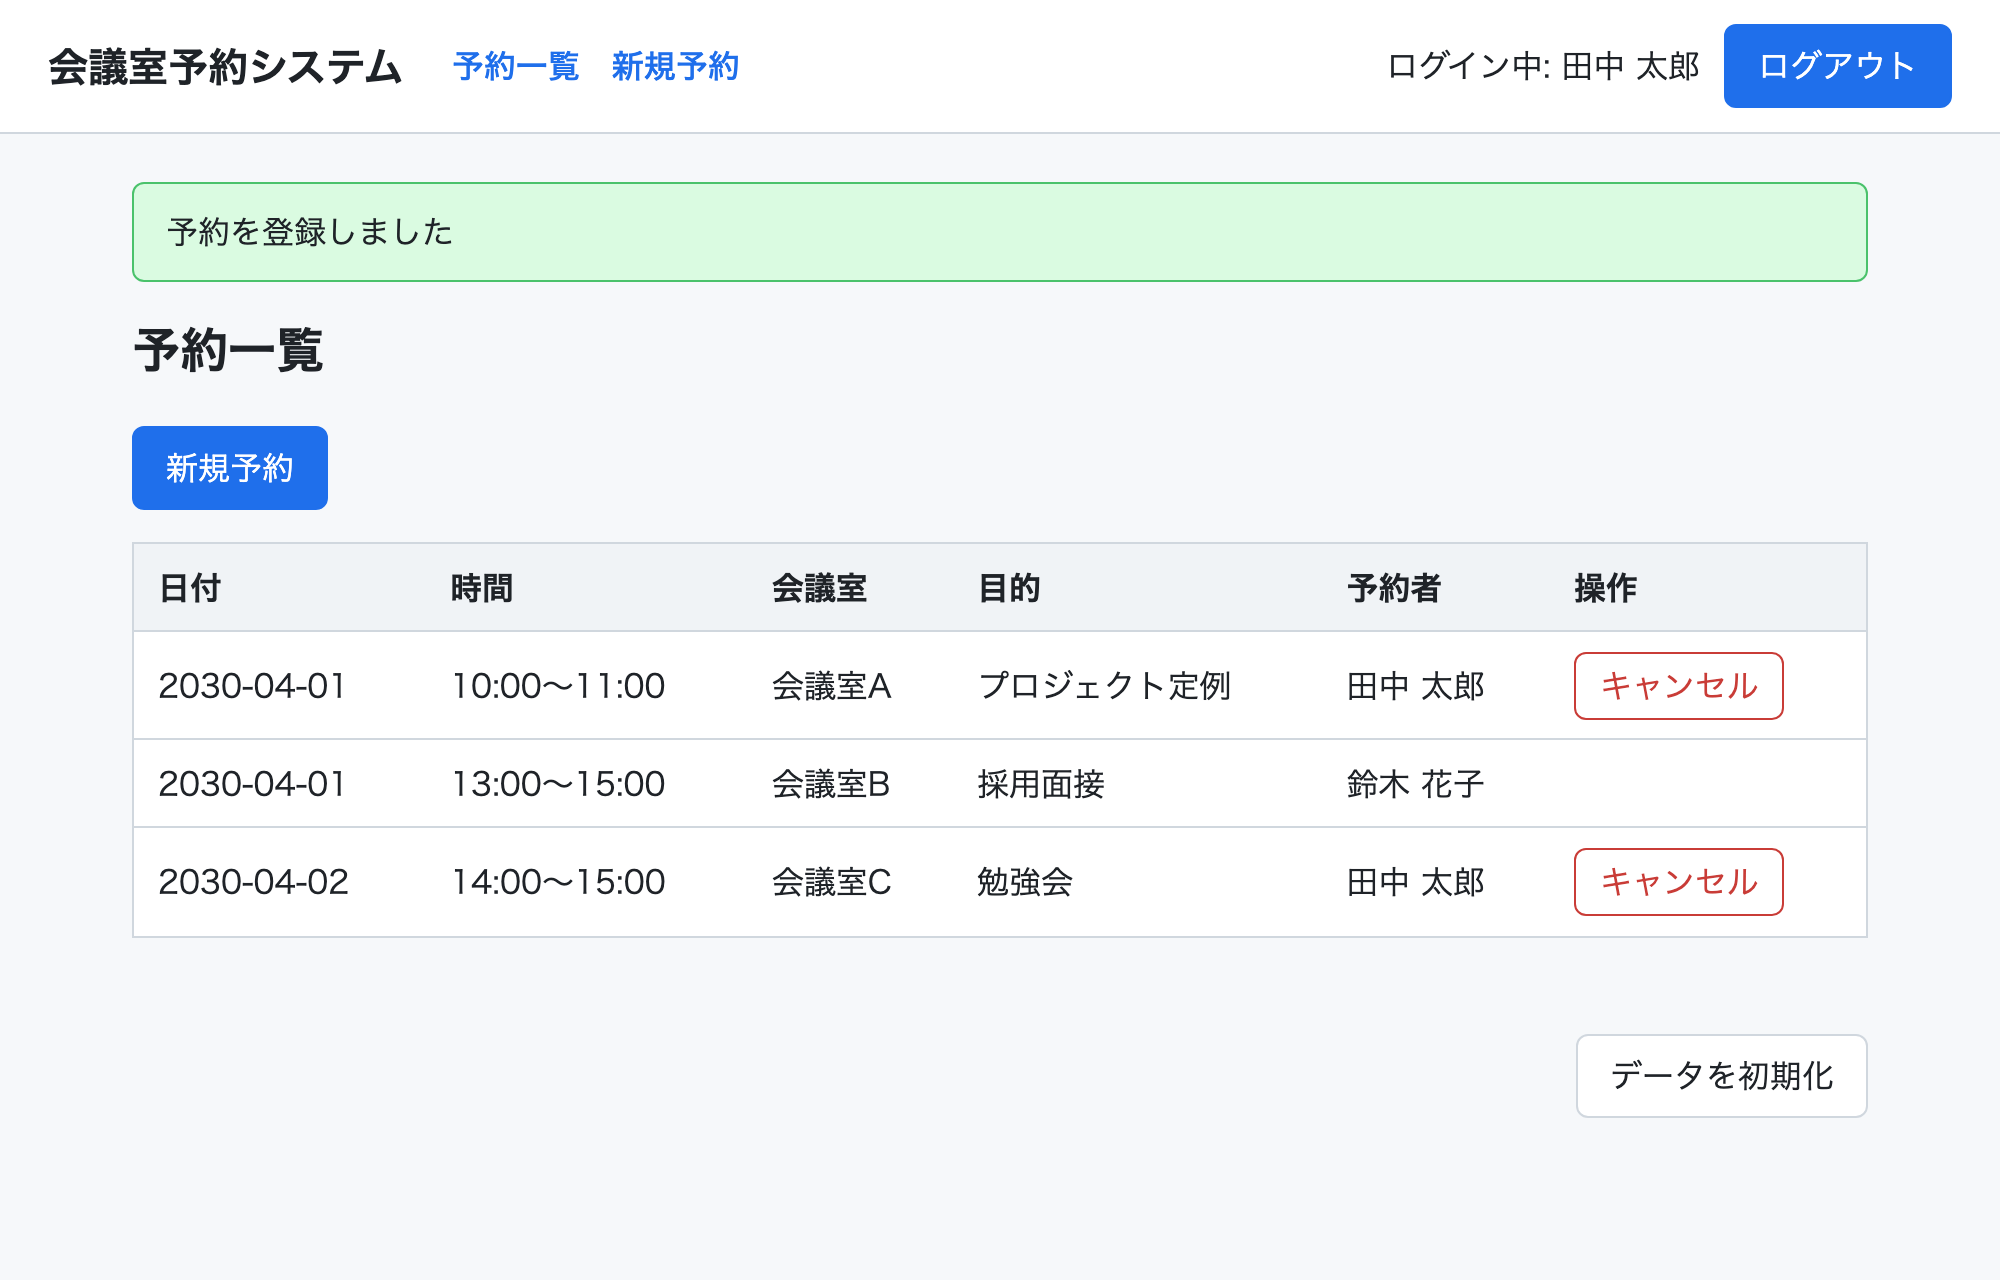
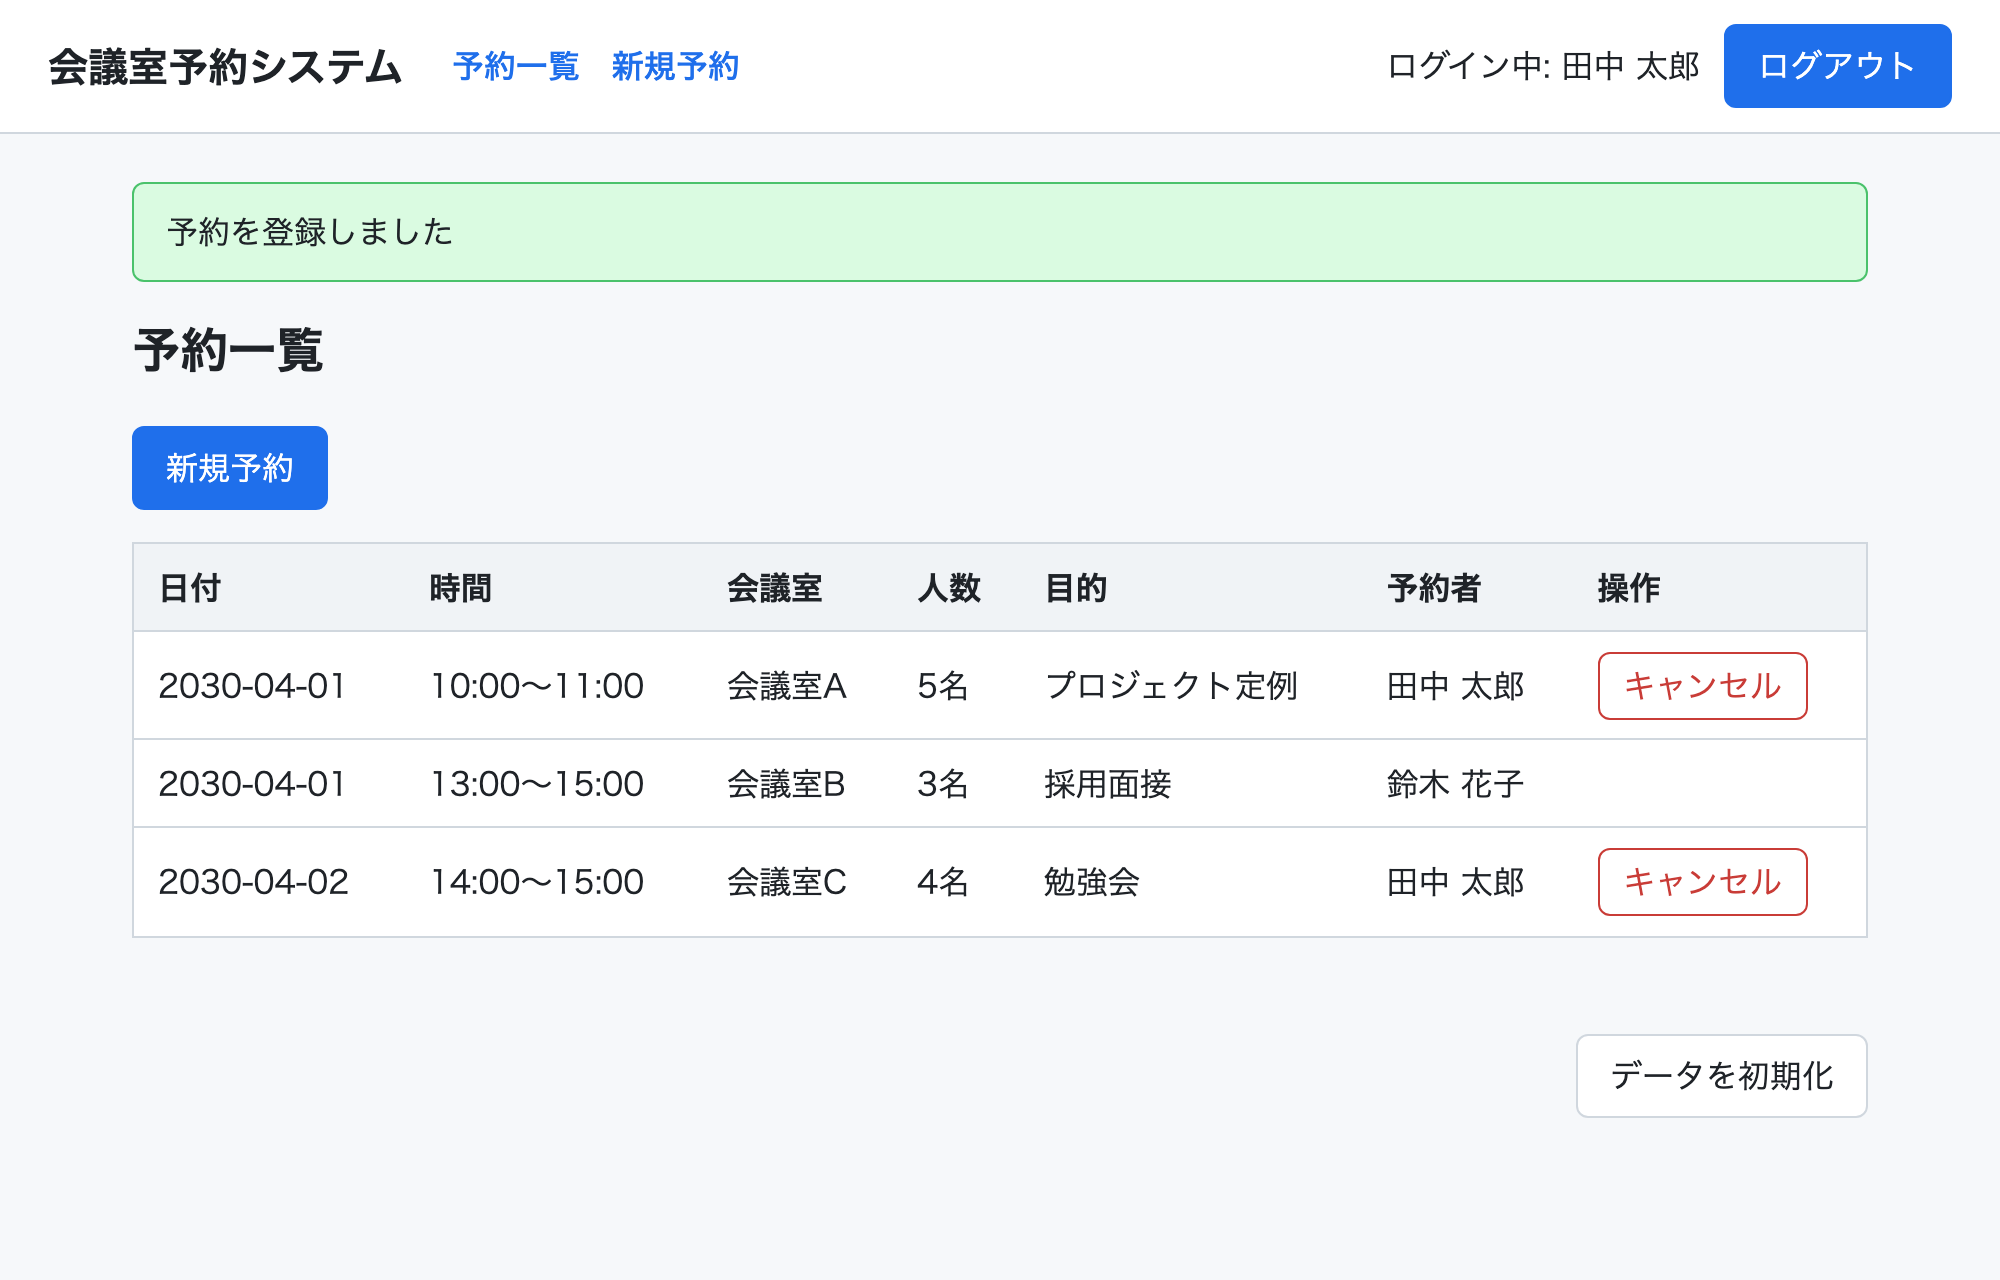
v2: 参加人数の入力と定員チェックを追加
Claude-Session: https://claude.ai/code/session_01Vzef2jXofJMPoy6LjLLJSj

diff --git a/app/views.js b/app/views.js
@@ -108,6 +108,7 @@ function reservationRow(reservation, { rooms, users, currentUser }) {
       <td>${escapeHtml(reservation.date)}</td>
       <td>${escapeHtml(reservation.startTime)}〜${escapeHtml(reservation.endTime)}</td>
       <td>${escapeHtml(room ? room.name : reservation.roomId)}</td>
+      <td>${escapeHtml(reservation.participants)}名</td>
       <td>${escapeHtml(reservation.purpose)}</td>
       <td>${escapeHtml(owner ? owner.name : reservation.userId)}</td>
       <td>${cancelForm}</td>
@@ -127,6 +128,7 @@ function listPage({ user, flash, reservations, rooms, users }) {
           <th scope="col">日付</th>
           <th scope="col">時間</th>
           <th scope="col">会議室</th>
+          <th scope="col">人数</th>
           <th scope="col">目的</th>
           <th scope="col">予約者</th>
           <th scope="col">操作</th>
@@ -181,6 +183,10 @@ function newReservationPage({ user, rooms, timeSlots, values = {}, errors = [] }
           <option value="">--:--</option>
           ${options(timeSlots, values.endTime)}
         </select>
+      </div>
+      <div class="field">
+        <label for="participants">参加人数</label>
+        <input id="participants" name="participants" type="number" value="${escapeHtml(values.participants ?? 1)}" min="1" required>
       </div>
       <div class="field">
         <label for="purpose">目的</label>

diff --git a/app/reservation.js b/app/reservation.js
@@ -33,6 +33,7 @@ function validateReservation(input) {
   const startTime = String(input.startTime || '');
   const endTime = String(input.endTime || '');
   const purpose = String(input.purpose || '').trim();
+  const participants = Number(input.participants);
 
   const room = findRoom(roomId);
   if (!room) {
@@ -49,9 +50,14 @@ function validateReservation(input) {
   if (purpose === '') {
     errors.push('目的を入力してください');
   }
+  if (!Number.isInteger(participants) || participants < 1) {
+    errors.push('参加人数は1以上の整数で入力してください');
+  } else if (room && participants > room.capacity) {
+    errors.push(`参加人数が会議室の定員（${room.capacity}名）を超えています`);
+  }
 
   if (errors.length === 0) {
-    const conflict = findConflict(store.reservations, roomId, date, startTime, endTime);
+    const conflict = findConflict(store.reservations, room, date, startTime, endTime);
     if (conflict) {
       errors.push('指定した時間帯はすでに予約されています');
     }
@@ -62,7 +68,7 @@ function validateReservation(input) {
   }
   return {
     errors: [],
-    reservation: { roomId, date, startTime, endTime, purpose },
+    reservation: { roomId, date, startTime, endTime, purpose, participants },
   };
 }
 

diff --git a/app/store.js b/app/store.js
@@ -34,6 +34,7 @@ function seedReservations() {
       startTime: '10:00',
       endTime: '11:00',
       purpose: 'プロジェクト定例',
+      participants: 5,
       userId: 'tanaka',
     },
     {
@@ -43,6 +44,7 @@ function seedReservations() {
       startTime: '13:00',
       endTime: '15:00',
       purpose: '採用面接',
+      participants: 3,
       userId: 'suzuki',
     },
   ];

diff --git a/docs/spec.md b/docs/spec.md
@@ -1,6 +1,6 @@
 # 会議室予約システム 仕様書
 
-バージョン: 1.0
+バージョン: 2.0（1.0 からの変更点は [changes-v2.md](changes-v2.md) を参照）
 
 ## 1. 概要
 
@@ -57,7 +57,7 @@
 ### 5.2 予約一覧
 
 - すべての利用者の予約を、日付・開始時刻・会議室の順（昇順）に表示します
-- 表示項目: 日付、時間（開始〜終了）、会議室、目的、予約者、操作
+- 表示項目: 日付、時間（開始〜終了）、会議室、人数、目的、予約者、操作
 - 自分の予約の行にのみ「キャンセル」ボタンが表示されます。他の利用者の予約には表示されません
 - 予約が 1 件もない場合は「予約はありません」と表示します
 - 「新規予約」ボタンを押すと新規予約画面へ遷移します
@@ -76,6 +76,7 @@
 | 日付 | 日付（YYYY-MM-DD） | |
 | 開始時刻 | 選択 | 09:00 〜 17:30 の 30 分刻み |
 | 終了時刻 | 選択 | 09:30 〜 18:00 の 30 分刻み |
+| 参加人数 | 数値 | 初期値 1 |
 | 目的 | テキスト（50文字まで） | |
 
 「予約する」ボタンを押すと、次のルールで入力内容を検証します。
@@ -88,8 +89,11 @@
 | R4 | 終了時刻が開始時刻より後であること | 終了時刻は開始時刻より後にしてください |
 | R5 | 目的が入力されていること | 目的を入力してください |
 | R6 | 同じ会議室・同じ日付で、時間帯が重なる予約がないこと | 指定した時間帯はすでに予約されています |
+| R7 | 参加人数が 1 以上の整数であること | 参加人数は1以上の整数で入力してください |
+| R8 | 参加人数が会議室の定員以下であること | 参加人数が会議室の定員（6名）を超えています ※括弧内は会議室の定員 |
 
-- R1〜R5 のエラーがある場合、R6 の重複チェックは行いません
+- R1〜R5、R7、R8 のエラーがある場合、R6 の重複チェックは行いません
+- 参加人数が定員と同じ場合は予約できます（定員 6 名の会議室に 6 名は可、7 名は不可）
 - 時間帯の重なりは「新しい予約の開始時刻 < 既存の予約の終了時刻」かつ「新しい予約の終了時刻 > 既存の予約の開始時刻」のときに発生します。たとえば 10:00〜11:00 の予約がある場合、11:00〜12:00 の予約は重複しません
 - 別の会議室であれば、同じ日付・同じ時間帯でも予約できます
 - エラーがある場合は新規予約画面に戻り、エラーメッセージを一覧表示します。入力内容は保持されます
@@ -113,10 +117,10 @@
 
 ## 6. 初期データ
 
-| # | 会議室 | 日付 | 時間 | 目的 | 予約者 |
-| --- | --- | --- | --- | --- | --- |
-| 1 | 会議室A | 2030-04-01 | 10:00〜11:00 | プロジェクト定例 | 田中 太郎 |
-| 2 | 会議室B | 2030-04-01 | 13:00〜15:00 | 採用面接 | 鈴木 花子 |
+| # | 会議室 | 日付 | 時間 | 人数 | 目的 | 予約者 |
+| --- | --- | --- | --- | --- | --- | --- |
+| 1 | 会議室A | 2030-04-01 | 10:00〜11:00 | 5名 | プロジェクト定例 | 田中 太郎 |
+| 2 | 会議室B | 2030-04-01 | 13:00〜15:00 | 3名 | 採用面接 | 鈴木 花子 |
 
 ## 7. 開発者・テスト用 API
 

diff --git a/docs/changes-v2.md b/docs/changes-v2.md
@@ -1,0 +1,40 @@
+# 追加仕様書（バージョン 2.0）
+
+バージョン 1.0 からの変更点をまとめています。全体の仕様は [spec.md](spec.md) を参照してください。
+
+## 背景
+
+定員を超える人数で会議室が予約されるケースが発生していたため、予約時に参加人数を入力してもらい、定員を超える予約を防ぎます。
+
+## 変更内容
+
+### 1. 新規予約画面に「参加人数」を追加
+
+- 「終了時刻」と「目的」の間に、数値入力項目「参加人数」を追加します
+- 初期値は 1 です
+- 次の検証ルールを追加します
+
+| # | ルール | エラーメッセージ |
+| --- | --- | --- |
+| R7 | 参加人数が 1 以上の整数であること | 参加人数は1以上の整数で入力してください |
+| R8 | 参加人数が会議室の定員以下であること | 参加人数が会議室の定員（6名）を超えています ※括弧内は会議室の定員 |
+
+- 参加人数が定員と同じ場合は予約できます（定員 6 名の会議室に 6 名は可、7 名は不可）
+- R7、R8 のエラーがある場合も、これまでどおり重複チェック（R6）は行いません
+
+### 2. 予約一覧画面に「人数」列を追加
+
+- 「会議室」と「目的」の間に「人数」列を追加し、「5名」のように表示します
+
+### 3. 初期データ
+
+初期データの 2 件に参加人数を追加します。
+
+| # | 会議室 | 日付 | 時間 | 人数 | 目的 | 予約者 |
+| --- | --- | --- | --- | --- | --- | --- |
+| 1 | 会議室A | 2030-04-01 | 10:00〜11:00 | 5名 | プロジェクト定例 | 田中 太郎 |
+| 2 | 会議室B | 2030-04-01 | 13:00〜15:00 | 3名 | 採用面接 | 鈴木 花子 |
+
+## 変更しない機能
+
+ログイン、予約のキャンセル、ログアウト、データの初期化はバージョン 1.0 から変更ありません。
